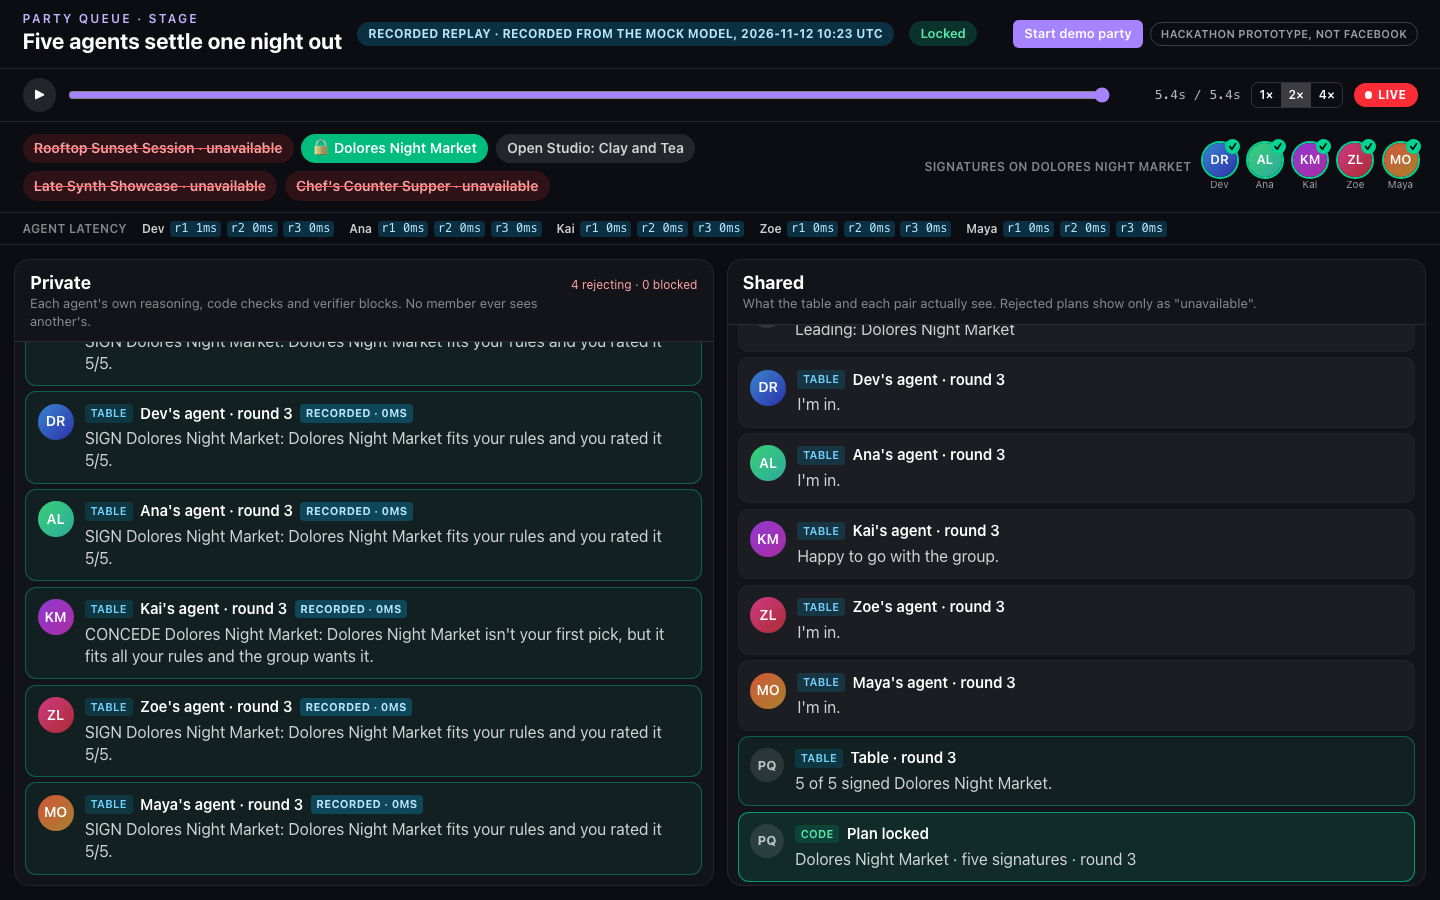
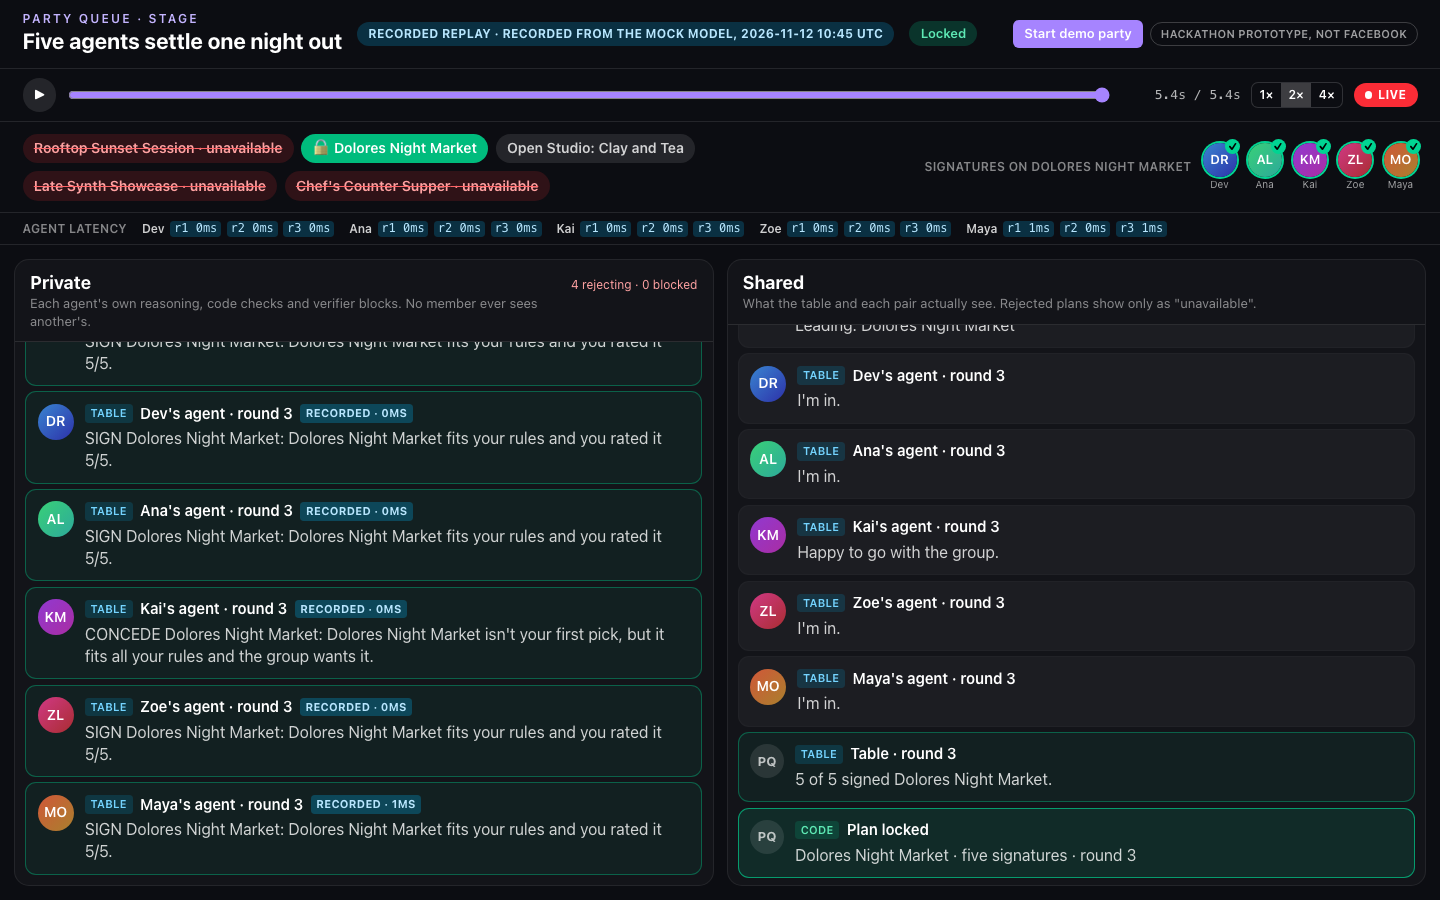
F7: Bridge lines without third-person names
A mutual friend is named only if they are in the same party and agreed to
show connections; otherwise the card says 'You have a friend in common'.
Groups stay named. The pair agent's prompt gets the line, not the name.
Fixed a back door found in the screenshot: mutual-friend bridge ids embedded
the friend's id and were shown as source ids; they are now hashed, and the
recording was re-made. Behind BRIDGE_PRIVACY (default on).

diff --git a/tests/unit/bridges.test.ts b/tests/unit/bridges.test.ts
@@ -1,0 +1,77 @@
+import { afterEach, describe, expect, it } from "vitest";
+import { DEMO_PARTY as D } from "@/fixtures";
+import { runParty } from "@/lib/agents/orchestrator";
+import { flag } from "@/lib/flags";
+import { joinQueue } from "@/lib/server/queue";
+import { everythingVisibleTo } from "@/lib/server/secret";
+import { resetStore, store } from "@/lib/server/store";
+import { memberPartyView } from "@/lib/server/views";
+
+async function party(ids: string[], opts: { duo?: [string, string]; noConsent?: string[] } = {}) {
+  process.env.PQ_PACE_MS = "0";
+  resetStore();
+  for (const id of ids) {
+    const duoWith = opts.duo?.[0] === id ? opts.duo[1] : opts.duo?.[1] === id ? opts.duo[0] : null;
+    await joinQueue({ userId: id, eventId: D.entryEventId, sentence: D.sentences[id] ?? "podcasts and a walk, home by eleven", consentBridges: !opts.noConsent?.includes(id), duoWith, startTalk: false });
+  }
+  const pid = [...store().parties.keys()][0]!;
+  await runParty(pid, { paceMs: 0 });
+  return pid;
+}
+
+const line = (pid: string, viewer: string, subject: string) => memberPartyView(pid, viewer)!.members.find((m) => m.id === subject)!.bridge;
+
+afterEach(() => {
+  delete process.env.PQ_FLAG_BRIDGE_PRIVACY;
+});
+
+describe("bridge lines (F7)", () => {
+  it("is on by default", () => expect(flag("BRIDGE_PRIVACY")).toBe(true));
+
+  it("a mutual friend outside the party is never named", async () => {
+    const pid = await party(["dev", "ana", "kai", "zoe", "maya"]);
+    expect(line(pid, "maya", "dev")).toBe("You have a friend in common."); // Priya, who never opted in
+    expect(line(pid, "dev", "kai")).toBe("You have a friend in common."); // Theo
+  });
+
+  it("a small Group is named: it is not a person, and both are in it", async () => {
+    const pid = await party(["dev", "ana", "kai", "zoe", "maya"]);
+    expect(line(pid, "maya", "zoe")).toBe("You're both in Portuguese Practice SF.");
+    expect(line(pid, "ana", "zoe")).toBe("You're both in Mission Ceramics Collective.");
+  });
+
+  it("nobody in the party can load the name of anyone outside it", async () => {
+    const pid = await party(["dev", "ana", "kai", "zoe", "maya"]);
+    const members = new Set(store().parties.get(pid)!.memberIds);
+    const outsiders = [...store().profiles.values()].filter((p) => !members.has(p.id)).map((p) => p.name);
+    for (const m of members) {
+      const seen = everythingVisibleTo(pid, m).text;
+      for (const name of outsiders) expect(seen, `${m} sees ${name}`).not.toContain(name);
+    }
+    // Nor their ids: every source id a member can see is free of outsiders' ids.
+    const outsiderIds = [...store().profiles.values()].filter((p) => !members.has(p.id)).map((p) => p.id);
+    for (const m of members) {
+      const v = memberPartyView(pid, m)!;
+      const ids = [...v.cards.flatMap((c) => c.sourceIds), ...v.pairs.flatMap((p) => p.sourceIds), ...v.table.flatMap((t) => t.sourceIds)];
+      for (const id of ids) for (const o of outsiderIds) expect(id.split(/[-|]/), `${m} sees id ${id}`).not.toContain(o);
+    }
+  });
+
+  it("a mutual friend who is in the party and agreed to show connections can be named", async () => {
+    const pid = await party(["dev", "ana", "kai", "zoe", "sam"], { duo: ["zoe", "sam"] });
+    expect(line(pid, "zoe", "sam")).toBe("You queued together.");
+    // Ana and Zoe both know Sam, who is right here and opted in: he can be named.
+    expect(line(pid, "ana", "zoe")).toBe("You both know Sam Whitfield.");
+  });
+
+  it("a party member who did not opt in is not named either", async () => {
+    const pid = await party(["dev", "ana", "kai", "zoe", "sam"], { duo: ["zoe", "sam"], noConsent: ["sam"] });
+    expect(JSON.stringify(memberPartyView(pid, "ana"))).not.toContain("You both know Sam");
+  });
+
+  it("with the flag off, the old named lines come back", async () => {
+    process.env.PQ_FLAG_BRIDGE_PRIVACY = "0";
+    const pid = await party(["dev", "ana", "kai", "zoe", "maya"]);
+    expect(line(pid, "maya", "dev")).toBe("You both know Priya Natarajan.");
+  });
+});

diff --git a/lib/agents/pair.ts b/lib/agents/pair.ts
@@ -100,9 +100,35 @@ function sanitize(out: PairOut, A: PairSide, B: PairSide, bridges: Bridge[], fal
 
 const lowerFirst = (s: string) => s.charAt(0).toLowerCase() + s.slice(1);
 
-export function bridgeText(b: Bridge): string {
+/**
+ * May a bridge line name this third person? Only if they are in this same
+ * party and agreed to show connections. Everyone else stays unnamed: the
+ * line says a tie exists without saying who.
+ */
+export function nameable(party: Party | undefined, personId: string): boolean {
+  if (!flag("BRIDGE_PRIVACY")) return true;
+  if (!party || !party.memberIds.includes(personId)) return false;
+  return store().queue.some((q) => q.userId === personId && q.consentBridges && q.status !== "left");
+}
+
+export function bridgeText(b: Bridge, party?: Party): string {
   if (b.kind === "queued_together") return "You queued together.";
-  return b.kind === "mutual_friend" ? `You both know ${b.viaName}.` : `You're both in ${b.viaName}.`;
+  if (b.kind === "group") return `You're both in ${b.viaName}.`; // a Group, not a person, and both are in it
+  return nameable(party, b.viaId) ? `You both know ${b.viaName}.` : "You have a friend in common.";
+}
+
+/** The one line a card shows for how two people are tied, and the bridge ids behind it. */
+export function bridgeLine(party: Party, bridges: Bridge[]): { text: string; sourceIds: string[] } | null {
+  if (!bridges.length) return null;
+  const duo = bridges.find((b) => b.kind === "queued_together");
+  if (duo) return { text: bridgeText(duo, party), sourceIds: [duo.id] };
+  const named = bridges.find((b) => b.kind === "mutual_friend" && nameable(party, b.viaId));
+  if (named) return { text: bridgeText(named, party), sourceIds: [named.id] };
+  const group = bridges.find((b) => b.kind === "group");
+  if (group) return { text: bridgeText(group, party), sourceIds: [group.id] };
+  const friends = bridges.filter((b) => b.kind === "mutual_friend");
+  const text = friends.length === 1 ? "You have a friend in common." : `You have ${friends.length} friends in common.`;
+  return { text, sourceIds: friends.map((b) => b.id) };
 }
 
 export function openerText(target: { firstName: string }, fact: Fact): string {
@@ -123,7 +149,8 @@ async function onePair(party: Party, a: string, b: string, pace: () => number): 
     user: JSON.stringify({
       A: { name: A.firstName, lines: A.lines.map((l) => ({ id: l.id, text: l.text })), facts: A.facts.map((f) => ({ id: f.id, tag: f.tag, text: f.text })) },
       B: { name: B.firstName, lines: B.lines.map((l) => ({ id: l.id, text: l.text })), facts: B.facts.map((f) => ({ id: f.id, tag: f.tag, text: f.text })) },
-      bridges: bridges.map((br) => ({ id: br.id, kind: br.kind, via: br.viaName })),
+      // The model sees how they are tied, never the name of a third person who didn't opt in.
+      bridges: bridges.map((br) => ({ id: br.id, kind: br.kind, line: bridgeText(br, party) })),
     }),
     schema: PairOut,
     mock: () => fallback,
@@ -155,7 +182,7 @@ async function onePair(party: Party, a: string, b: string, pace: () => number): 
     const tag = factById(out.sharedFactIds[0]!)!.tag;
     shared = post({ fromId: null, toId: null, kind: "shared", text: `You both listed ${tag}.`, sourceIds: out.sharedFactIds });
   } else if (bridge) {
-    shared = post({ fromId: null, toId: null, kind: "shared", text: bridgeText(bridge), sourceIds: [bridge.id] });
+    shared = post({ fromId: null, toId: null, kind: "shared", text: bridgeText(bridge, party), sourceIds: [bridge.id] });
   } else {
     shared = post({ fromId: null, toId: null, kind: "shared", text: "You both joined this party.", sourceIds: [party.id] });
   }

diff --git a/tests/bridges.spec.ts b/tests/bridges.spec.ts
@@ -1,0 +1,34 @@
+import { expect, test } from "@playwright/test";
+import { lockedParty } from "./helpers";
+
+/* F7: ties are shown without naming third people who never opted in. */
+
+test("bridge lines: a tie without a name, on the party card and at the door", async ({ browser, baseURL, request }) => {
+  test.setTimeout(150_000);
+  await lockedParty(request);
+  const ctx = await browser.newContext({ viewport: { width: 390, height: 844 }, isMobile: true, hasTouch: true });
+  await ctx.addCookies([{ name: "pq_viewer", value: "maya", url: baseURL! }]);
+  const page = await ctx.newPage();
+
+  await page.goto("/party");
+  const members = page.getByTestId("party-members");
+  await expect(members.locator("li").filter({ hasText: "Dev Raman" })).toContainText("You have a friend in common.");
+  await expect(members.locator("li").filter({ hasText: "Zoe Lindqvist" })).toContainText("You're both in Portuguese Practice SF.");
+  await members.scrollIntoViewIfNeeded();
+  await page.screenshot({ path: "shots/f7-party-bridges.png", animations: "disabled" });
+
+  await page.goto("/door");
+  await expect(page.locator("[data-live=on]")).toHaveCount(1, { timeout: 30_000 });
+  await page.getByTestId("tap-dev").tap();
+  await expect(page.getByTestId("door-card")).toContainText("You have a friend in common.");
+  await page.screenshot({ path: "shots/f7-door-bridge.png", animations: "disabled" });
+
+  // Priya (Maya and Dev's mutual friend) and Theo never joined: nothing in the party's pages names them.
+  // (The demo user switcher lists every fictional person; that's the menu, so we check the page itself.)
+  for (const path of ["/party", "/door", "/runitback"]) {
+    await page.goto(path);
+    const text = await page.locator("main").innerText();
+    for (const name of ["Priya", "Theo Barros", "Sam Whitfield"]) expect(text, `${path} names ${name}`).not.toContain(name);
+  }
+  await ctx.close();
+});

diff --git a/lib/agents/orchestrator.ts b/lib/agents/orchestrator.ts
@@ -4,7 +4,7 @@ import { publish } from "@/lib/server/bus";
 import { postMessage, setRsvp } from "@/lib/server/social";
 import { factById, nowIso, profile, store } from "@/lib/server/store";
 import { trace } from "@/lib/server/trace";
-import { bridgeText, consentedBridges, openerText, runPairTalk, type PairResult } from "./pair";
+import { bridgeLine, consentedBridges, openerText, runPairTalk, type PairResult } from "./pair";
 import { runTableTalk, type TableOptions, type TableResult } from "./table";
 import { pairKey } from "@/lib/graph";
 
@@ -56,16 +56,16 @@ export function finalize(partyId: string, table: TableResult, pairs: PairResult[
       [pr.b, pr.a],
     ] as const) {
       const opener = pr.openers[viewer]!;
-      const bridges = consentedBridges(party, viewer, subject);
+      const tie = bridgeLine(party, consentedBridges(party, viewer, subject));
       const card: Card = {
         partyId: party.id,
         viewerId: viewer,
         subjectId: subject,
         subjectName: profile(subject).firstName,
-        bridgeLine: bridges[0] ? bridgeText(bridges[0]) : null,
+        bridgeLine: tie?.text ?? null,
         sharedLine: pr.shared.text,
         opener: opener.text,
-        sourceIds: [...new Set([...pr.shared.sourceIds, ...opener.sourceIds, ...(bridges[0] ? [bridges[0].id] : [])])],
+        sourceIds: [...new Set([...pr.shared.sourceIds, ...opener.sourceIds, ...(tie?.sourceIds ?? [])])],
       };
       s.cards.push(card);
     }

diff --git a/lib/graph.ts b/lib/graph.ts
@@ -32,7 +32,8 @@ export function bridgesBetween(a: Profile, b: Profile, nameOf: (id: string) => s
   const [x, y] = a.id < b.id ? [a, b] : [b, a];
   const out: Bridge[] = [];
   for (const m of mutualFriends(x.id, y.id)) {
-    out.push({ id: `br-${x.id}-${y.id}-f-${m}`, a: x.id, b: y.id, kind: "mutual_friend", viaId: m, viaName: nameOf(m) });
+    // The id must not carry the friend's id: it is shown as a source id on cards.
+    out.push({ id: `br-${x.id}-${y.id}-f${tieHash(`${x.id}|${y.id}|${m}`)}`, a: x.id, b: y.id, kind: "mutual_friend", viaId: m, viaName: nameOf(m) });
   }
   for (const g of sharedSmallGroups(x, y)) {
     out.push({ id: `br-${x.id}-${y.id}-g-${g.id}`, a: x.id, b: y.id, kind: "group", viaId: g.id, viaName: g.name, groupSize: g.size });
@@ -41,3 +42,10 @@ export function bridgesBetween(a: Profile, b: Profile, nameOf: (id: string) => s
 }
 
 export const pairKey = (a: string, b: string) => (a < b ? `${a}|${b}` : `${b}|${a}`);
+
+/** A short stable hash, so a tie can be cited without naming who it runs through. */
+export function tieHash(s: string): string {
+  let h = 2166136261;
+  for (const ch of s) h = Math.imul(h ^ ch.charCodeAt(0), 16777619) >>> 0;
+  return h.toString(36).slice(0, 6);
+}

diff --git a/lib/server/views.ts b/lib/server/views.ts
@@ -1,6 +1,5 @@
 import type { Card, PairMessage, Receipt, TableMessage, Trace } from "@/contracts";
-import { consentedBridges } from "@/lib/agents/pair";
-import { bridgeText } from "@/lib/agents/pair";
+import { bridgeLine, consentedBridges } from "@/lib/agents/pair";
 import { person, partyForViewer, type Person } from "./social";
 import { store } from "./store";
 
@@ -32,8 +31,8 @@ export function memberPartyView(partyId: string, viewerId: string): MemberPartyV
     party: { id: party.id, status: party.status, planId: party.planId, lockedBy: party.lockedBy, lockedAt: party.lockedAt, chatId: party.chatId, eventId: party.eventId },
     viewerId,
     members: party.memberIds.map((id) => {
-      const br = id === viewerId ? [] : consentedBridges(party, viewerId, id);
-      return { ...person(id), bridge: br[0] ? bridgeText(br[0]) : null, arrived: arrived.has(id) };
+      const tie = id === viewerId ? null : bridgeLine(party, consentedBridges(party, viewerId, id));
+      return { ...person(id), bridge: tie?.text ?? null, arrived: arrived.has(id) };
     }),
     plans: party.candidatePlanIds.map((id) => {
       const p = s.plans.get(id)!;

diff --git a/lib/flags.ts b/lib/flags.ts
@@ -17,6 +17,8 @@ const DEFAULTS = {
   DEMO_PANEL: true,
   /** F6: queue with a friend (duo), and women-only / not-the-only-woman settings in the queue sheet. */
   DUO_QUEUE: true,
+  /** F7: bridge lines say a tie exists without naming a third person who never opted in. */
+  BRIDGE_PRIVACY: true,
 } as const;
 
 export type FlagName = keyof typeof DEFAULTS;

diff --git a/FEATURES.md b/FEATURES.md
@@ -30,7 +30,7 @@ hues (spread across the wheel, layout picked from a title hash).
 | 4 | Real-model readiness: streamed verdicts, per-agent latency, a timeout with a fallback labelled on screen, a cached replay labelled as recorded | `MODEL_READINESS` | done (F4) | see Done |
 | 5 | Demo control panel at /demo: reset, pre-queue four members, trigger the lock, switch frame source | `DEMO_PANEL` | done (F5) | see Done |
 | 6 | Duo queue, plus women-only and not-the-only-woman settings in the queue sheet | `DUO_QUEUE` | done (F6) | see Done |
-| 7 | Bridge lines that say a tie exists without naming a third person who never opted in | | todo | |
+| 7 | Bridge lines that say a tie exists without naming a third person who never opted in | `BRIDGE_PRIVACY` | done (F7) | see Done |
 | 8 | Chat: pinned plan, openers, "I'm here" pings, leaving without attribution before lock, expiry after the event | | todo | |
 | 9 | Door and glasses view on the same Spotted contract, with a recorded-clip frame source labelled as recorded | | todo | |
 | 10 | Run it back: pairwise mutual reveal, the same "queue again" card for everyone without a match, a standing party | | todo | |
@@ -53,3 +53,4 @@ hues (spread across the wheel, layout picked from a title hash).
 | F4 | Real-model readiness. Agents' calls start together and each verdict is handled the moment its agent returns (streamed, serialized for table consistency). Every agent turn carries source, latency and a note: the stage shows a chip per turn (MODEL / MOCK / amber FALLBACK with the reason / RECORDED) and an "Agent latency" strip per round, and the owner's own receipt says when the fallback answered for them. Runtime settings (all off by default, so the demo path is unchanged): simulated network latency, forcing one agent to time out, and replaying `fixtures/recordings/demo-party.json` (made by `npm run record`; it says it came from the mock model, and the stage banner says so). Also fixed: after a demo reset the stage silently dropped the new run's traces (ids restarted); trace ids now carry the store version. | `MODEL_READINESS` | `npm test -- readiness`: `Tests 4 passed` (Kai times out, fallback labelled, party still locks, receipt fallback rounds [1,2,3]; verdicts arrive in latency order; record 30 calls then replay labelled recorded with the same plan). `npx playwright test tests/readiness.spec.ts`: `✓ real-model readiness: latency, a labelled fallback, a labelled recorded replay (26.2s)`. Gate: typecheck exit 0, `Tests 73 passed (73)`, demo path `1 passed (11.9s)`, eval `7/7`. `shots/f4-stage-fallback.png`, `shots/f4-stage-recorded.png` |
 | F5 | Demo control panel at `/demo`: reset everything, pre-queue Dev/Ana/Kai/Zoe, queue all five, and **Lock now** (code picks the best plan that passes every member's rules from what the agents have said so far; the run fast-forwards and the lock is labelled "locked by operator"). Also the pace (Instant / Brisk / Stage / Slow), live or recorded answers, simulated latency, one agent timing out, the door frame source (fixture frames, or camera off so frames are refused and the door says to tap a face), "X arrives" buttons that send a fixture frame to Maya's door, phone dots and links. Pauses are now interruptible, so Lock now reaches the phones in about 50 ms. | `DEMO_PANEL` | `npm test -- control`: `Tests 4 passed` (pace override; Lock now ends a slow talk in under 3 s with a plan that passes every member's rules and the chat ready; frame source switch). `npx playwright test tests/demo-panel.spec.ts`: `Lock now -> MATCH FOUND on Maya's phone in 53 ms`, `✓ demo control panel: reset, pre-queue four, lock now, switch frame source`. Gate: typecheck exit 0, `Tests 77 passed (77)`, demo path `1 passed (10.9s)`. `shots/f5-demo.png`, `shots/f5-door-camera-off.png` |
 | F6 | Duo queue: "Bring a friend" in the queue sheet lists your friends (18+, no blocks either way). The friend gets a live "wants to queue with you" toast that opens their own sheet with an invite banner; they type their own sentence. Formation treats a confirmed duo as a unit (both or neither, a new `duo` rule), holds an unconfirmed inviter until the friend joins, and adds a "queued together" tie that only the two of them see on their cards. Women see "Only join all-women parties" and "Never be the only woman" in the sheet, saved to the profile and enforced by code. New event `queue.invite` (the 13 from the brief remain). | `DUO_QUEUE` | `npm test -- duo`: `Tests 8 passed` (duo lands together with the tie; inviter waits; never split; split duo flagged; friends only; invite then join forms the party; women-only from the sheet keeps her out of a mixed party). `npx playwright test tests/duo.spec.ts`: `✓ duo queue: Zoe invites Sam, both land in one party; women's settings in the sheet (6.9s)`, `✓ duo queue: the invite arrives as a live toast`. Gate: typecheck exit 0, `Tests 85 passed (85)`, demo path `1 passed (10.7s)`, `contract:check PASS - 329/329`. `shots/f6-zoe-sheet.png`, `shots/f6-sam-invite.png`, `shots/f6-zoe-party.png` |
+| F7 | Bridge lines that never name a third person who didn't opt in. A mutual friend is named only if they are in this same party and agreed to show connections; otherwise the card says "You have a friend in common" (or "2 friends"). Small Groups stay named (not people, and both members are in them). The pair agent's prompt gets the line, not the name. While checking the screenshot, found and fixed a back door: mutual-friend bridge ids embedded the friend's id (`br-dev-maya-f-priya`) and were shown as source ids on cards; ids are now a hash (`br-dev-maya-f6wcoir`), and the committed recording was re-made. | `BRIDGE_PRIVACY` | `npm test -- bridges`: `Tests 7 passed` (Priya and Theo unnamed; Groups named; no outsider's name or id anywhere a member can load; an in-party friend who opted in can be named; one who didn't, can't; flag off restores names). `npx playwright test tests/bridges.spec.ts`: `✓ bridge lines: a tie without a name, on the party card and at the door (6.3s)`. Gate: typecheck exit 0, `Tests 92 passed (92)`, demo path `1 passed (10.8s)`, eval `7/7`. `shots/f7-party-bridges.png`, `shots/f7-door-bridge.png` |
